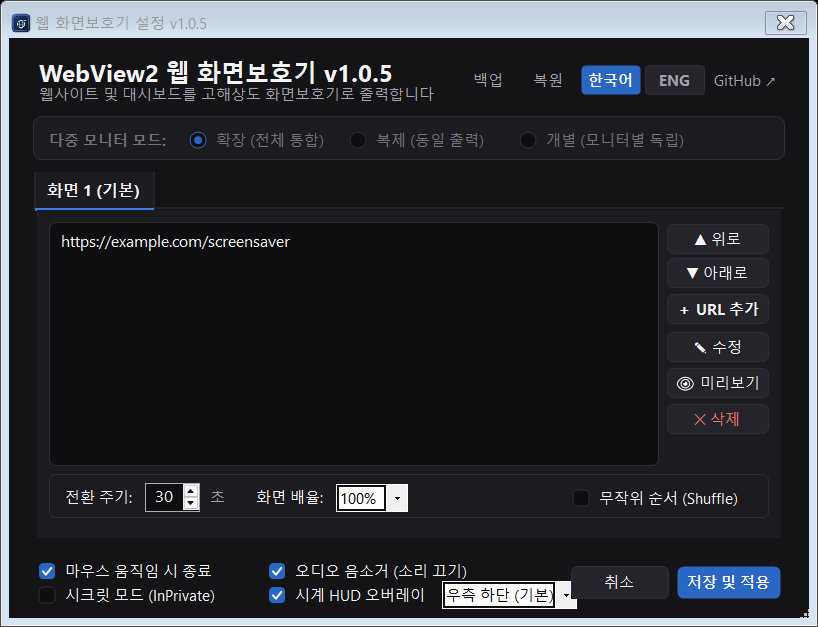
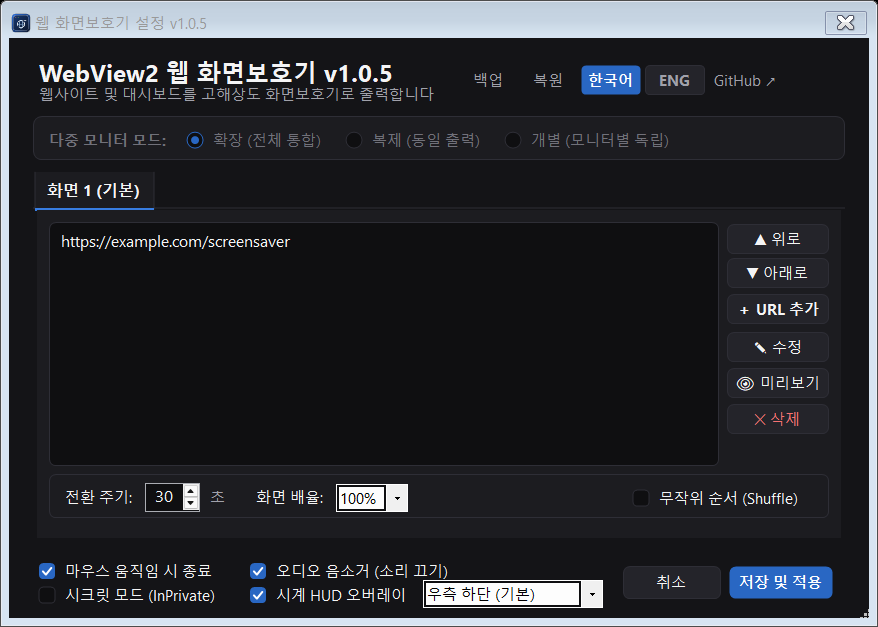
rules: Add UI layout self-verification rule and fix text clipping/overlaps

diff --git a/PreferencesForm.Designer.cs b/PreferencesForm.Designer.cs
@@ -82,7 +82,7 @@ namespace Web_Page_Screensaver
             this.headerPanel.Controls.Add(this.lblTitle);
             this.headerPanel.Location = new System.Drawing.Point(24, 16);
             this.headerPanel.Name = "headerPanel";
-            this.headerPanel.Size = new System.Drawing.Size(752, 56);
+            this.headerPanel.Size = new System.Drawing.Size(812, 56);
             this.headerPanel.TabIndex = 0;
             // 
             // btnUpdateNotice
@@ -240,7 +240,7 @@ namespace Web_Page_Screensaver
             this.multiScreenCard.Location = new System.Drawing.Point(24, 78);
             this.multiScreenCard.Name = "multiScreenCard";
             this.multiScreenCard.Padding = new System.Windows.Forms.Padding(12, 10, 12, 10);
-            this.multiScreenCard.Size = new System.Drawing.Size(752, 44);
+            this.multiScreenCard.Size = new System.Drawing.Size(812, 44);
             this.multiScreenCard.TabIndex = 1;
             // 
             // separateScreensButton
@@ -316,7 +316,7 @@ namespace Web_Page_Screensaver
             this.screenTabControl.Location = new System.Drawing.Point(24, 132);
             this.screenTabControl.Name = "screenTabControl";
             this.screenTabControl.SelectedIndex = 0;
-            this.screenTabControl.Size = new System.Drawing.Size(752, 372);
+            this.screenTabControl.Size = new System.Drawing.Size(812, 372);
             this.screenTabControl.TabIndex = 2;
             // 
             // screenTabPage1
@@ -326,7 +326,7 @@ namespace Web_Page_Screensaver
             this.screenTabPage1.Location = new System.Drawing.Point(4, 40);
             this.screenTabPage1.Name = "screenTabPage1";
             this.screenTabPage1.Padding = new System.Windows.Forms.Padding(12);
-            this.screenTabPage1.Size = new System.Drawing.Size(744, 328);
+            this.screenTabPage1.Size = new System.Drawing.Size(804, 328);
             this.screenTabPage1.TabIndex = 0;
             this.screenTabPage1.Text = "Screen 1";
             // 
@@ -338,7 +338,7 @@ namespace Web_Page_Screensaver
             this.prefsByScreenUserControl1.Location = new System.Drawing.Point(12, 12);
             this.prefsByScreenUserControl1.Margin = new System.Windows.Forms.Padding(0);
             this.prefsByScreenUserControl1.Name = "prefsByScreenUserControl1";
-            this.prefsByScreenUserControl1.Size = new System.Drawing.Size(720, 304);
+            this.prefsByScreenUserControl1.Size = new System.Drawing.Size(780, 304);
             this.prefsByScreenUserControl1.TabIndex = 0;
             // 
             // bottomPanel
@@ -355,7 +355,7 @@ namespace Web_Page_Screensaver
             this.bottomPanel.Controls.Add(this.okButton);
             this.bottomPanel.Location = new System.Drawing.Point(24, 514);
             this.bottomPanel.Name = "bottomPanel";
-            this.bottomPanel.Size = new System.Drawing.Size(752, 58);
+            this.bottomPanel.Size = new System.Drawing.Size(812, 58);
             this.bottomPanel.TabIndex = 3;
             // 
             // cbCloseOnActivity
@@ -422,7 +422,7 @@ namespace Web_Page_Screensaver
             this.cmbClockPosition.FormattingEnabled = true;
             this.cmbClockPosition.Location = new System.Drawing.Point(372, 29);
             this.cmbClockPosition.Name = "cmbClockPosition";
-            this.cmbClockPosition.Size = new System.Drawing.Size(135, 23);
+            this.cmbClockPosition.Size = new System.Drawing.Size(180, 23);
             this.cmbClockPosition.TabIndex = 4;
             // 
             // cancelButton
@@ -435,7 +435,7 @@ namespace Web_Page_Screensaver
             this.cancelButton.FlatAppearance.BorderSize = 0;
             this.cancelButton.FlatStyle = System.Windows.Forms.FlatStyle.Flat;
             this.cancelButton.Font = new System.Drawing.Font("Segoe UI", 9F);
-            this.cancelButton.Location = new System.Drawing.Point(538, 14);
+            this.cancelButton.Location = new System.Drawing.Point(594, 14);
             this.cancelButton.Name = "cancelButton";
             this.cancelButton.Size = new System.Drawing.Size(98, 33);
             this.cancelButton.Style = Web_Page_Screensaver.ModernButtonStyle.Secondary;
@@ -454,7 +454,7 @@ namespace Web_Page_Screensaver
             this.okButton.FlatAppearance.BorderSize = 0;
             this.okButton.FlatStyle = System.Windows.Forms.FlatStyle.Flat;
             this.okButton.Font = new System.Drawing.Font("Segoe UI", 9F, System.Drawing.FontStyle.Bold);
-            this.okButton.Location = new System.Drawing.Point(644, 14);
+            this.okButton.Location = new System.Drawing.Point(700, 14);
             this.okButton.Name = "okButton";
             this.okButton.Size = new System.Drawing.Size(104, 33);
             this.okButton.Style = Web_Page_Screensaver.ModernButtonStyle.Primary;
@@ -469,7 +469,7 @@ namespace Web_Page_Screensaver
             this.AutoScaleMode = System.Windows.Forms.AutoScaleMode.None;
             this.BackColor = System.Drawing.Color.FromArgb(((int)(((byte)(20)))), ((int)(((byte)(20)))), ((int)(((byte)(23)))));
             this.CancelButton = this.cancelButton;
-            this.ClientSize = new System.Drawing.Size(800, 580);
+            this.ClientSize = new System.Drawing.Size(860, 580);
             this.Controls.Add(this.bottomPanel);
             this.Controls.Add(this.screenTabControl);
             this.Controls.Add(this.multiScreenCard);

diff --git a/PreferencesForm.cs b/PreferencesForm.cs
@@ -243,11 +243,11 @@ namespace Web_Page_Screensaver
                 ? selectedClockIndex
                 : 0;
 
-            // 언어 텍스트 길이에 맞춰 콤보박스 위치 자동 정렬
-            cmbClockPosition.Location = new Point(cbClockOverlay.Right + 8, 29);
-
             cancelButton.Text = isKo ? "취소" : "Cancel";
             okButton.Text = isKo ? "저장 및 적용" : "Save & Apply";
+
+            // 언어별 텍스트 길이 변화에 따른 상단/하단 컨트롤 동적 정렬 (간섭 및 겹침 방지)
+            AdjustResponsiveLayout();
 
             // 탭 이름 갱신
             UpdateTabTitles();
@@ -260,6 +260,46 @@ namespace Web_Page_Screensaver
                     ctrl.ApplyLanguage(lang);
                 }
             }
+        }
+
+        /// <summary>
+        /// 언어 변경 및 텍스트 폭 변화에 따라 멀티 모니터 라디오 버튼과 하단 옵션 컨트롤들을
+        /// 동적으로 정렬하여 문구 간섭 및 글자 잘림을 방지합니다.
+        /// </summary>
+        public void AdjustResponsiveLayout()
+        {
+            // 1. 다중 모니터 라벨 및 라디오 버튼 동적 정렬 (영문 오버랩 해결)
+            lblMultiScreen.AutoSize = true;
+            spanScreensButton.AutoSize = true;
+            mirrorScreensButton.AutoSize = true;
+            separateScreensButton.AutoSize = true;
+
+            int multiStartX = lblMultiScreen.Right + 14;
+            spanScreensButton.Location = new Point(multiStartX, 12);
+            mirrorScreensButton.Location = new Point(spanScreensButton.Right + 14, 12);
+            separateScreensButton.Location = new Point(mirrorScreensButton.Right + 14, 12);
+
+            // 2. 하단 패널 컨트롤 동적 정렬 (1열과 2열 및 버튼 간격 최적화)
+            cbCloseOnActivity.AutoSize = true;
+            cbInPrivate.AutoSize = true;
+            cbMuteAudio.AutoSize = true;
+            cbClockOverlay.AutoSize = true;
+
+            cbCloseOnActivity.Location = new Point(4, 7);
+            cbInPrivate.Location = new Point(4, 31);
+
+            int col2Left = Math.Max(cbCloseOnActivity.Right, cbInPrivate.Right) + 24;
+            cbMuteAudio.Location = new Point(col2Left, 7);
+            cbClockOverlay.Location = new Point(col2Left, 31);
+
+            // 시계 위치 콤보박스: 영문 텍스트가 전부 보이도록 180px 너비 및 안전 여백 확보
+            cmbClockPosition.Size = new Size(180, 23);
+            cmbClockPosition.Location = new Point(cbClockOverlay.Right + 8, 28);
+
+            // 우측 확인/취소 버튼 정렬
+            int panelW = bottomPanel.ClientSize.Width > 0 ? bottomPanel.ClientSize.Width : 812;
+            okButton.Location = new Point(panelW - okButton.Width - 12, 14);
+            cancelButton.Location = new Point(okButton.Left - cancelButton.Width - 8, 14);
         }
 
         private void btnLangKor_Click(object sender, EventArgs e)

diff --git a/AssetScreenshotGenerator.cs b/AssetScreenshotGenerator.cs
@@ -60,6 +60,16 @@ namespace Web_Page_Screensaver
 
                 CaptureFormWindow(form, Path.Combine(outputDirectory, "screenshot_light.png"));
 
+                // 4. 영문 모드 캡처 (다국어 UI 문구 간섭 및 겹침 자가 검증용)
+                form.ApplyLanguage("en");
+                ThemeManager.IsLightTheme = false;
+                form.ApplyTheme(false);
+                form.Refresh();
+                Application.DoEvents();
+                Thread.Sleep(200);
+
+                CaptureFormWindow(form, Path.Combine(outputDirectory, "screenshot_en.png"));
+
                 // 정리
                 form.DialogResult = DialogResult.Cancel;
                 form.Close();
